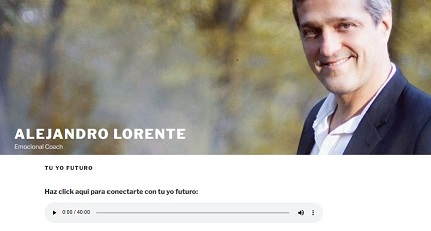
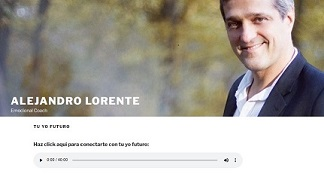
Adecuar contenido curso
Se adecuo el contenido del curso a responsive asi como el video

diff --git a/css/styles.css b/css/styles.css
@@ -6,10 +6,9 @@
 }
 /*Se define el tamaño del viewport y el color del background*/
 .contenedor-gral{
-  
+  font-size: 16px;
   background-image: linear-gradient(rgba(0, 0, 0, 0.6), rgba(0, 0, 0, 0.6)), url("../imgs/sakura.jpg");
   /*background-color: rgba(71, 71, 71, 1);*/
-
   width: 100vw;
   height: 100vh;
   margin: 0 auto;
@@ -18,11 +17,11 @@
 .contador{
   background-color: rgba(221, 6, 6, 0.948);
   color: white;
-  font-size: 2rem;
+  font-size: 2em;
   height: 15vh;
   width: 100%;
   display:flex;
-  gap: .5rem;
+  gap: .5em;
   justify-content: center;
   align-items: center;
   position: fixed;
@@ -48,16 +47,16 @@
 
 }
 h1{
-  font-size: 3rem;
-  padding-top: 7rem;
+  font-size: 3em;
+  padding-top: 3em;
 }
 /*Se formatea el contenedor del video alto, ancho y al centro*/
 .video-contenedor{
   width: 70vw;
-  height: 400px;
-  max-width: 700px;
-  min-width: 320px;
-  min-height: 150px;
+  height:25em;
+  max-width: 43.75em;
+  min-width: 20em;
+  min-height: 9.375em;
   margin: 0 auto;
   display:block;
 }
@@ -71,22 +70,22 @@ h1{
 .dolores{
   width: 90%;
   color:#D92D07;
-  font-size: 1.5rem;
+  font-size: 1.5em;
   display: grid;
-  grid-template-columns: 1fr 2 fr;
+  /*grid-template-columns: 1fr 2fr;*/
   align-items: center;
   margin: 2rem auto;
 }
 .dolor{
   display:flex;
-  gap: 1rem;
+  gap: 1em;
   justify-content: space-around;
   align-items: center;
 }
 /*Se formatea el cuestionamiento*/
 .desicion{
   color:white;
-  margin: 1rem 0;
+  margin: 1em 0;
 }
 /* Se centra la imagen del precio*/
 .precio{
@@ -107,8 +106,8 @@ h1{
 }
 /*Formateo del tamaño de las flechas a los lados del boton*/
 .flecha{
-  width: 10rem;
-  height: 6rem;
+  width: 10em;
+  height: 6em;
 }
 /*Se añade desplazamiento de las flechas*/
 .fder{
@@ -141,28 +140,29 @@ h1{
 }
 /* Se formatean todos los h2*/
 .subtit{
-  font-size: 2rem;
-  margin: 1rem;
+  font-size: 2em;
+  margin: 1em;
 }
 /*Se formatean el que y como lograr*/
 .content-logros{
   width: 95%;
   display:flex;
-  gap: 2rem;
+  align-items:flex-start;
+  gap: 2em;
 }
 .que-lograr{
   width: 55%;
-  margin-left: 2rem;
-  font-size: 1.5rem;
+  margin-left: 2em;
+  font-size: 1.3em;
 }
 li{
   width: 100%;
-  margin-left: 2rem;
+  margin: 0 .5em 0 1em;
   color: white;
 }
 .cuadro-valor{
   width: 40%;
-  margin-right: 1rem;
+  margin-left: .5em;
   margin:0 auto;
 }
 .certif{
@@ -172,62 +172,65 @@ li{
 details{
   background-color: #D92D07;
   color: black;
-  padding: .5rem;
-  border-radius: 0.625rem;
-  margin: .5rem 2rem;
+  padding: .5em;
+  border-radius: 0.625em;
+  margin: .5em 2em;
   cursor:pointer;
-  font-size: 1rem;
+  font-size: 1em;
 }
 /*Se formatea la seccion del los datos del productor del curso*/
 .productor{
   width: 90%;
-  font-size: 1.1rem;
-  margin: 1rem auto;
+  font-size: 1.2em;
+  margin: 1em auto;
 }
 .productor img{
   color:white;
   float:left;
-  margin-right: 2rem;
+  margin-right: 2em;
 }
 /* Se formatean los testimonios*/
 .testimonios{
-  margin: 1rem auto;
+  margin: 1em auto;
   text-align: center;
 }
 .testim{
   background-color: beige;
   border-radius: 10px;
-  margin-bottom: 2rem;
-  margin-left: 2rem;
+  margin-bottom: 2em;
+  margin-left: 2em;
 }
 .testim img{
-  width: 4rem;
+  width: 4em;
 }
 .testim p{
   color:#D92D07;
 }
 .testim p, span{
-  font-size: 1rem;
+  font-size: 1em;
 }
+/*Todo lo que obtendras en el curso*/
 .contenido_curso{
   width: 90%;
   color:#D92D07;
-  font-size: 1.5rem;
-  display:grid;
-  align-content: center;
+  font-size: 1.5em;
+  display: grid;
+  align-items: center;
   margin: 2rem auto;
 }
 .conten{
   display:flex;
-  gap: 1rem;
+  gap: 1em;
   justify-content: space-around;
   align-items: center;  
 }
+.content .c1 .c3{
+  width: 12.5em;
+}
 .ctafinal{
-  width: 75%;
-  margin: 2rem auto 0;
+  margin: 1em auto 0;
   text-align: center;
-  font-size: 1.5rem;
+  font-size: 1.5em;
   color: white;
 }
 
@@ -241,11 +244,11 @@ footer{
 }
 .aaprender{
   width:20%;
-  padding: 1rem 0 0;
+  padding: 1em 0 0;
 }
 .respyder{
   width: 60%;
-  margin: 0 auto .5rem;
+  margin: 0 auto .5em;
 
 }
 .redesoc{
@@ -254,16 +257,13 @@ footer{
   margin: 0 auto;
 }
 .redesoc img{
-  width: 3rem;
-  margin-bottom: 1rem;
+  width: 3em;
+  margin-bottom: 1em;
 }
 /* ----- MEDIA QUERIES ----- */
 @media (max-width: 939px) {
   .contenedor-gral{
    font-size: 12px;
-  }
-  .flecha{
-    display:none;
   }
   .content-logros{
     width: 90%;
@@ -278,8 +278,14 @@ footer{
   .cuadro-valor{
     width: 50%;
   }
+  .contenido_curso{
+    width: 100%;
+  }
   .conten{
+    width: 100%;
     flex-direction: column;
+    justify-items: center;
+    margin: 0 auto;
   }
   .c2, .c4, .c6{
     flex-direction: column-reverse;
@@ -289,14 +295,31 @@ footer{
 @media (max-width: 750px) {
   .contenedor-gral{
     font-size: 10px;
+    width: 100vw;
    }
+  .contador{
+    flex-direction: column;
+  } 
+  .video-contenedor{
+    width: 100%;
+  }
   .dolor{
     flex-direction: column;
   }
   .d2, .d4{
     flex-direction: column-reverse;
   }
+  .flecha{
+    display:none;
+  }
   .btn-compra{
     width: 300px;
-  } 
+  }
+  .c1img .c3img{
+    width: 200px;
+  }
+  .ctafinal{
+    width: 100%;
+    margin: 0 auto;
+  }
 }

diff --git a/index.html b/index.html
@@ -347,10 +347,11 @@
         <h2 class="subtit">¿Qué es lo que vas a obtener?</h2>
         <section class="contenido_curso">
           <div class="conten c1">
-            <img src="imgs/coverGris.jpg">
+            <img src="imgs/coverGris.jpg" class="c1img">
             <div>Curso de "Acupuntura con los dedos" con mas de 80 lecciones en video para que los estudies en tus
               tiempos
-              libres y las veces que quieras.</div>
+              libres y las veces que quieras.
+            </div>
           </div>
           <div class="conten c2">  
             <div>
@@ -359,7 +360,7 @@
             <img src="imgs/libroTeatroenfamilia.jpg">
           </div>
           <div class="conten c3">
-            <img src="imgs/TuYoFuturo.jpg">
+            <img src="imgs/TuYoFuturo.jpg"class="c3img">
             <div>
               <h3>Bono 2:</h3>Audio: Tu Yo Futuro
             </div> 
@@ -375,8 +376,7 @@
             <img src="imgs/mockBancoPyR.jpg">
             <div>
               <h3>Bono 4:</h3>Banco de Preguntas y Respuestas de dudas que han surgido de los clientes que han tomado
-              este
-              curso.
+              este curso.
             </div>
           </div>
           <div class="conten c6">
@@ -385,8 +385,9 @@
             </div>
             <img src="imgs/Meridianos.jpg">
           </div>
-
-          <h2 class="ctafinal">
+        </section>
+        <section class="ctafinal">
+          <h2 class="titfinal">
             ¡No lo pienses mas! Aprovecha la oportunidad de aprender esta técnica y ayudar a muchas personas a mejorar su
             estado de ánimo y su bienestar.
           </h2>
